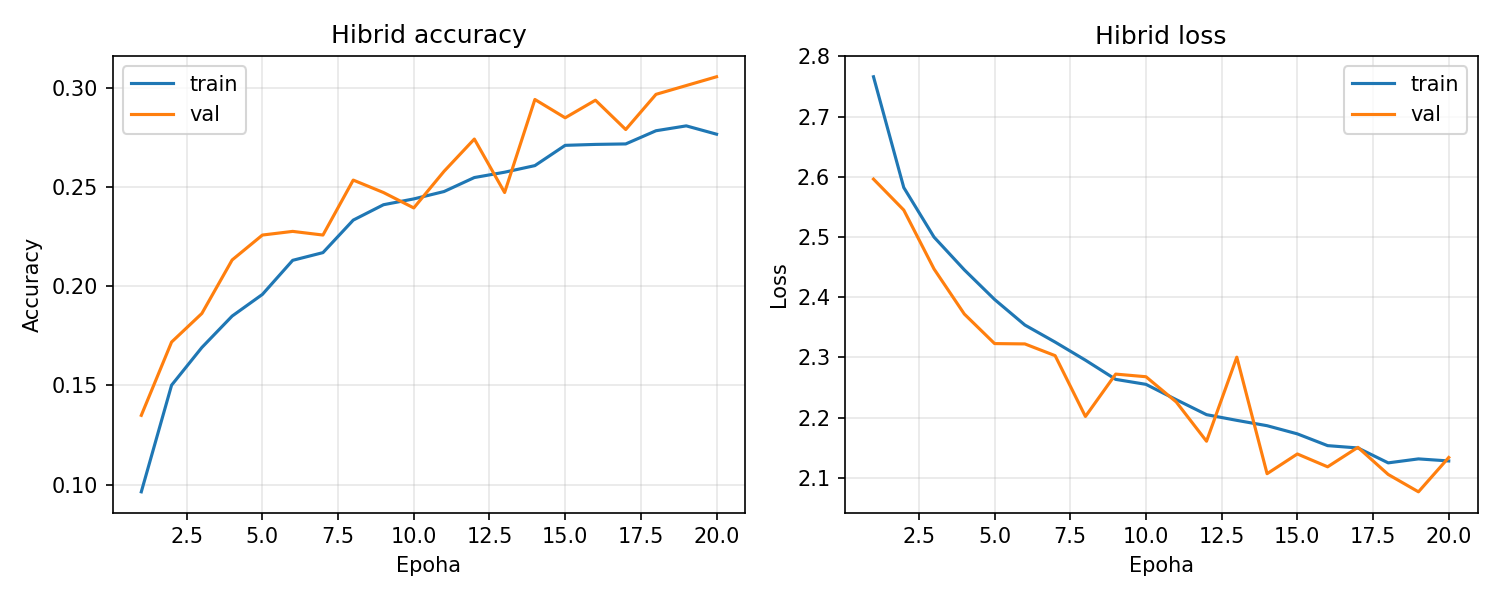
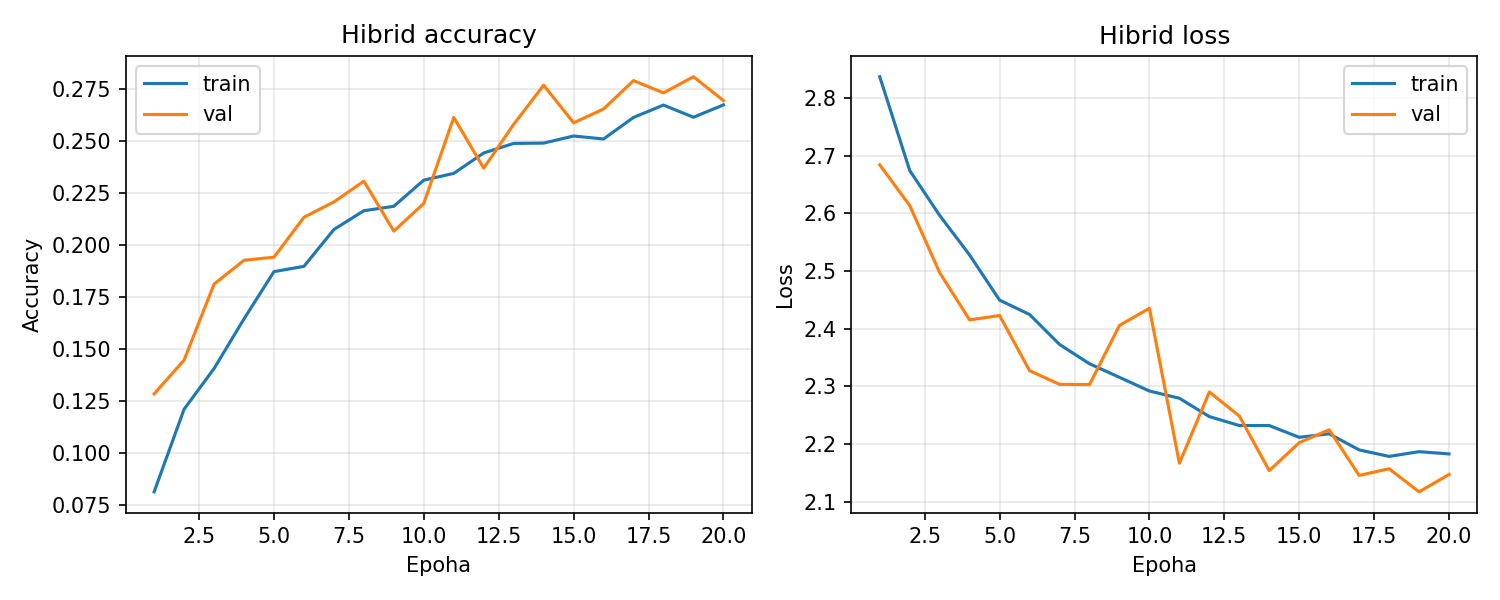
Update hybrid experiment results after Colab retraining

diff --git a/experiments/comparison_all.md b/experiments/comparison_all.md
@@ -9,7 +9,7 @@ Test skup (2706 slika) se koristi samo na kraju za finalnu evaluaciju.
 | Model              | Parametara | Trenabilnih | Ulaz    | Epoha | Najbolji val acc | **Test acc** | Test loss  | Macro F1   |
 | ------------------ | ---------- | ----------- | ------- | ----- | ---------------- | ------------ | ---------- | ---------- |
 | VGG-lite           | 1.242.674  | 1.242.674   | 224×224 | 20    | 33.85%           | 35.14%       | 1.9121     | —          |
-| Hibrid             | 57.434     | 57.434      | 224×224 | 20    | 30.56%           | 29.71%       | 2.1079     | —          |
+| Hibrid             | 57.434     | 57.434      | 224×224 | 20    | 28.09%           | 27.72%       | 2.1002     | —          |
 | Transfer dense     | 21.839.666 | 36.882      | 299×299 | 100   | 52.77%           | 49.93%       | 1.4698     | 0.4965     |
 | Transfer fine-tune | 21.839.666 | 6.107.154   | 299×299 | 28    | **59.57%**       | **56.91%**   | **1.3791** | **0.5704** |
 
@@ -23,7 +23,7 @@ Dostignut je referentni opseg iz rada koji repliciramo (56–57%).
 
 ### Custom modeli
 
-- **VGG-lite** (35.14%) je bolji od **hibrida** (29.71%), iako hibrid ima manje parametara.  
+- **VGG-lite** (35.14%) je bolji od **hibrida** (27.72%), iako hibrid ima manje parametara.  
 Dodavanje Inception-stil grane nije pomoglo na ovom skupu verovatno zato što je model  
 previše mali za složeniju arhitekturu uz isti broj epoha.
 - Oba custom modela su daleko ispod transfer pristupa, što potvrđuje da pretrenirane
